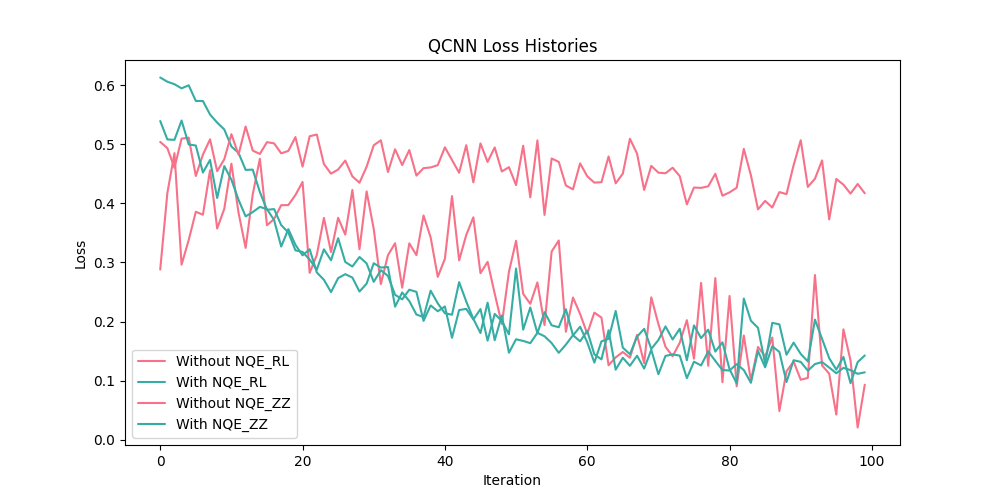
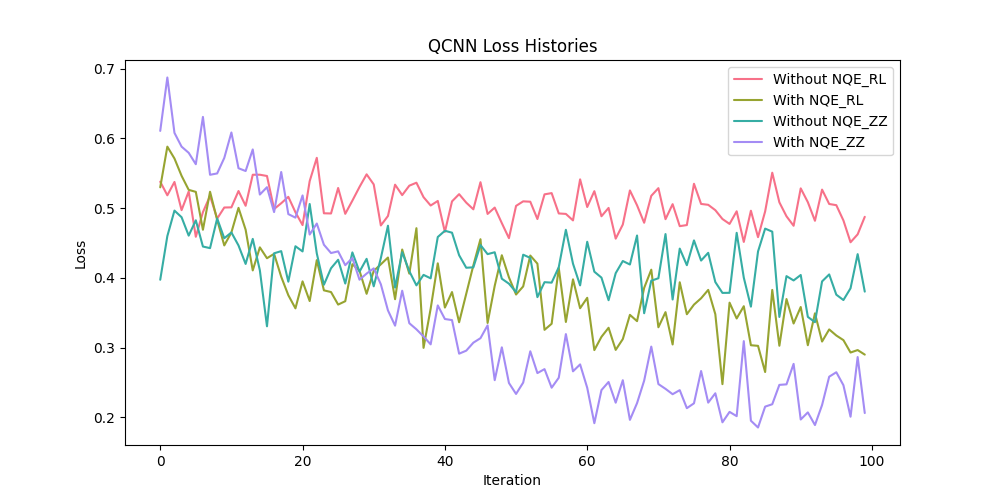
feat working code, with 000101010110,,, error

diff --git a/NQE_RL_batch_fix_NN.py b/NQE_RL_batch_fix_NN.py
@@ -97,7 +97,7 @@ class QASEnv(gym.Env):
             num_of_qubit: int = 4,
             fidelity_threshold: float = 0.95,
             reward_penalty: float = 0.01,
-            max_timesteps: int = 20,
+            max_timesteps: int = 14 * 3,
             batch_size: int = 25
     ):
         super().__init__()
@@ -351,8 +351,8 @@ if __name__ == "__main__":
     learning_rate = 0.01
     state_size = 3 * data_size  # *3 because of Pauli X,Y,Z
     action_size = 6  # Number of possible actions, RX, RY, RZ, H, CX
-    episodes = 5
-    iterations = 7
+    episodes = 50
+    iterations = 200
     batch_size = 25
 
     # Load data
@@ -364,6 +364,8 @@ if __name__ == "__main__":
     optimizer = optim.Adam(policy.parameters(), lr=learning_rate)
 
     env = QASEnv(num_of_qubit=data_size, batch_size=batch_size)
+
+    policy_losses = []
 
     for episode in range(episodes):
         X1_batch, X2_batch, Y_batch = new_data(batch_size, X_train, Y_train)
@@ -401,14 +403,19 @@ if __name__ == "__main__":
         # Update policy network
         policy_loss = -torch.stack(log_probs).float() * returns
         policy_loss = policy_loss.mean()
+        policy_losses.append(policy_loss)
 
         optimizer.zero_grad()
         policy_loss.backward()
         optimizer.step()
 
-        print(f'Episode {episode + 1}/{episodes} complete.')
+        print(f'E{episode + 1}/{episodes}, loss:{policy_loss}, actions:{action_list}')
 
     print('Training Complete')
+
+    policy_losses = [loss.detach().numpy() for loss in policy_losses]
+    plt.plot(policy_losses)
+    plt.savefig('RL_single.png')
 
     model = Model_Fidelity(action_list)
     model.train()
@@ -435,7 +442,7 @@ if __name__ == "__main__":
     model_transform = x_transform()
     model_transform.load_state_dict(torch.load("model.pt"))
 
-    steps = 5
+    steps = 100
     learning_rate = 0.01
     batch_size = 25
 
@@ -459,7 +466,7 @@ if __name__ == "__main__":
     ax.set_title("QCNN Loss Histories")
     ax.legend()
 
-    fig.savefig('fig.png')
+    fig.savefig('fig_only_RL.png')
 
     accuracies_without_NQE, accuracies_with_NQE = [], []
 

diff --git a/NQE_RL_batch_fix_NN_compare.py b/NQE_RL_batch_fix_NN_compare.py
@@ -414,7 +414,7 @@ if __name__ == "__main__":
     learning_rate = 0.01
     state_size = 3 * data_size  # *3 because of Pauli X,Y,Z
     action_size = 6  # Number of possible actions, RX, RY, RZ, H, CX
-    episodes = 200
+    episodes = 50
     iterations = 200
     batch_size = 25
     N_layers = 3
@@ -428,6 +428,8 @@ if __name__ == "__main__":
     optimizer = optim.Adam(policy.parameters(), lr=learning_rate)
 
     env = QASEnv(num_of_qubit=data_size, batch_size=batch_size)
+
+    policy_losses = []
 
     for episode in range(episodes):
         X1_batch, X2_batch, Y_batch = new_data(batch_size, X_train, Y_train)
@@ -465,14 +467,19 @@ if __name__ == "__main__":
         # Update policy network
         policy_loss = -torch.stack(log_probs).float() * returns
         policy_loss = policy_loss.mean()
+        policy_losses.append(policy_loss)
 
         optimizer.zero_grad()
         policy_loss.backward()
         optimizer.step()
 
-        print(f'Episode {episode + 1}/{episodes} complete.')
+        print(f'E{episode + 1}/{episodes}, loss:{policy_loss}, actions:{action_list}')
 
     print('Training Complete')
+
+    policy_losses = [loss.detach().numpy() for loss in policy_losses]
+    plt.plot(policy_losses)
+    plt.savefig('RL_compare.png')
 
     model_RL = Model_Fidelity_RL(action_list)
     model_ZZ = Model_Fidelity_ZZ()
